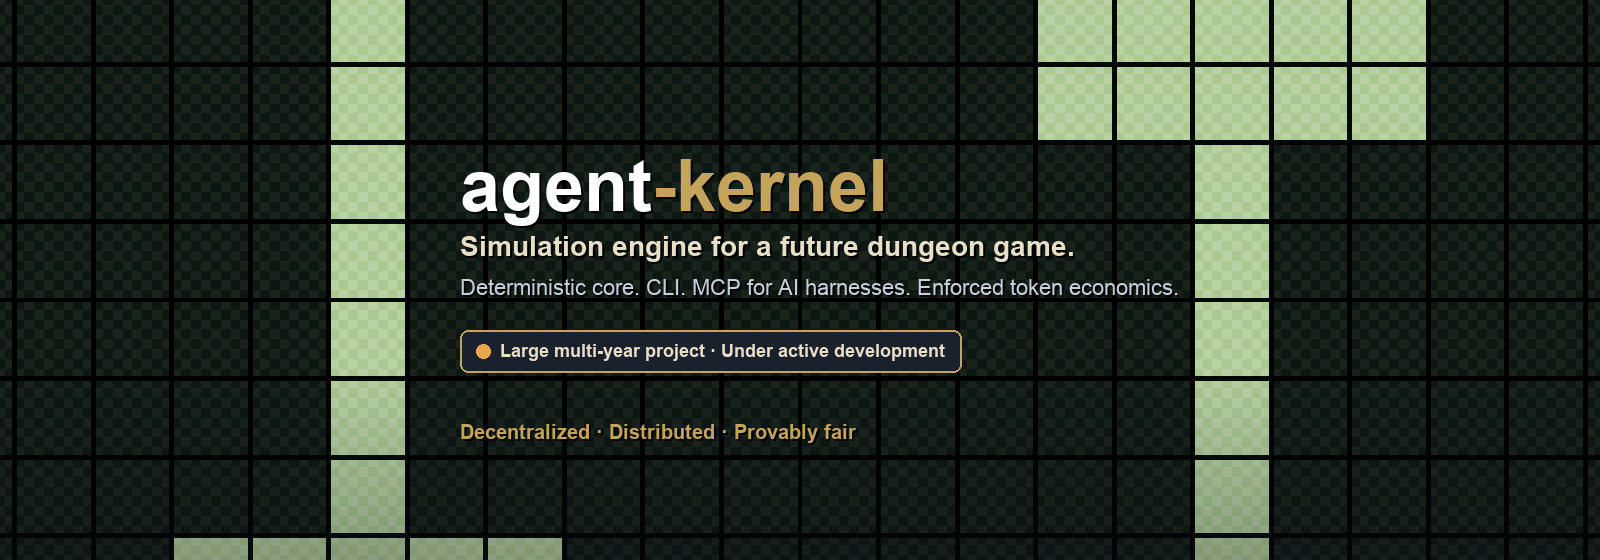
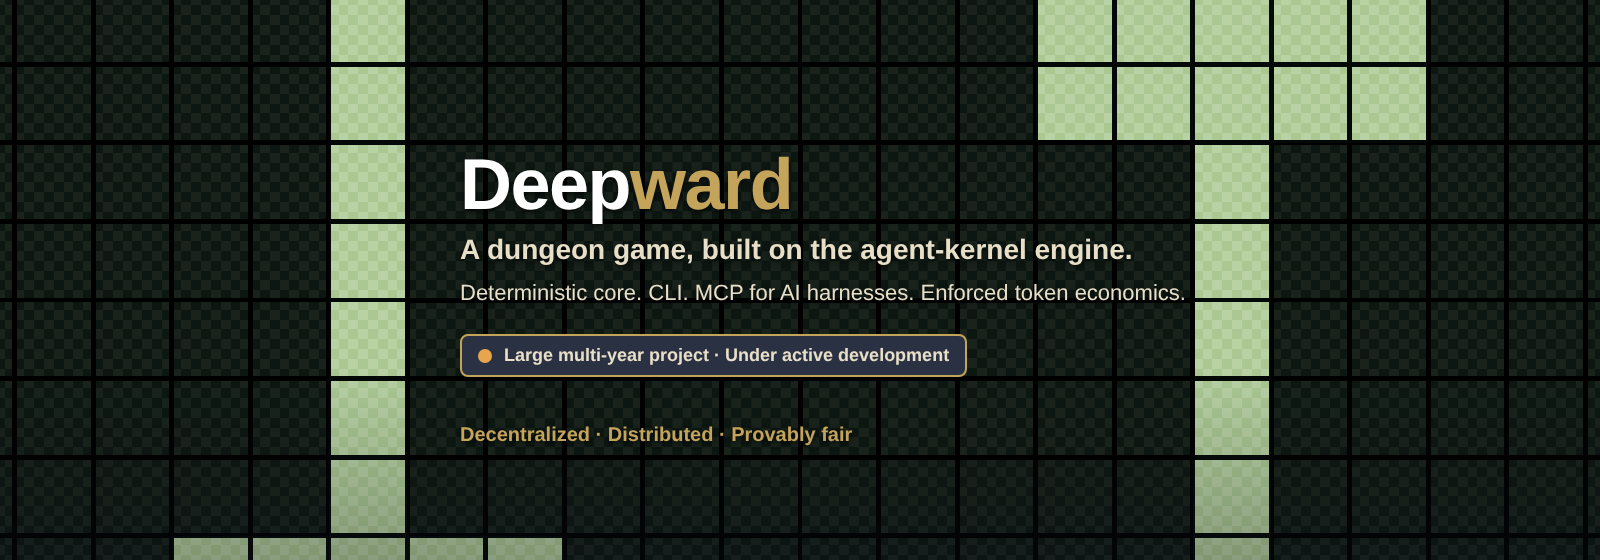
Deepward is the public name; agent-kernel stays the engine (#332)
Tier 1, visible names only (Darren, 2026-10-17):
- README leads with Deepward the game, then agent-kernel its engine.
  The brand kit, its preview, CLAUDE.md, AGENTS.md and the charter intro
  say the same.
- Root package.json is named `deepward`, with a matching description.
- Web game and browser UI titles, and the terminal game and run titles,
  read Deepward. Tests asserting the run title follow.
- banner.png is re-rendered with the Deepward wordmark from a new
  banner.html source over the same gameplay board
  (banner-background.png, the board with the old text painted out).
  scripts/brand/render-banner.sh regenerates it. banner.svg is updated too.
- Licence: PolyForm Strict 1.0.0 (LICENSE.md), terms of use (TERMS.md)
  and third-party notices (NOTICE.md), modelled on NordicAim's and linked
  from the README. The package.json licence is updated to match.

Out of scope and unchanged: `@agent-kernel/*` packages, `ak`, the
agent-kernel-cli MCP server, schema ids, settings permissions.
Renaming the GitHub repository is Darren's to do.

Claude-Session: https://claude.ai/code/session_013yJ8S9RcKaeZFRq2SLHoJD

Changed region(s): [[0.2812, 0.2732, 0.75, 0.5464], [0.2812, 0.5768, 0.625, 0.6982], [0.2812, 0.7589, 0.5312, 0.7893]]

diff --git a/docs/brand/preview.html b/docs/brand/preview.html
@@ -3,7 +3,7 @@
 <head>
   <meta charset="UTF-8" />
   <meta name="viewport" content="width=device-width, initial-scale=1" />
-  <title>agent-kernel — README preview (not published)</title>
+  <title>Deepward — README preview (not published)</title>
   <style>
     :root {
       --bg: #0d1117;
@@ -128,13 +128,13 @@
 <body>
   <div class="chrome">
     <strong>Local preview</strong>
-    <span>KomplexMojo / agent-kernel · README</span>
+    <span>KomplexMojo / Deepward · README</span>
     <span class="pill">Not published — review only</span>
   </div>
   <main>
     <article class="readme">
       <p class="center">
-        <img src="banner.png" alt="agent-kernel banner" width="100%">
+        <img src="banner.png" alt="Deepward banner" width="100%">
       </p>
       <p class="center">
         <img src="progress.svg" alt="Overall progress 40%" width="520">
@@ -152,7 +152,9 @@
         <img src="affinities/icon-affinity-dark.png" alt="">
       </div>
       <p class="center nav">
-        <a href="#the-engine"><b>The engine</b></a>
+        <a href="#the-game"><b>The game</b></a>
+        &nbsp;·&nbsp;
+        <a href="#the-engine">The engine</a>
         &nbsp;·&nbsp;
         <a href="#surfaces">Surfaces</a>
         &nbsp;·&nbsp;
@@ -164,11 +166,14 @@
       <blockquote>
         <b>Status.</b> This is a <b>large, multi-year project under active development</b>.
         Progress is about <b>40%</b> of the intended scope. The simulation core, CLI, and MCP surfaces
-        are in active use; the game that will sit on top of them is still ahead.
+        are in active use; the game that sits on top of them is early.
       </blockquote>
 
+      <h2 id="the-game">The game</h2>
+      <p><b>Deepward</b> is a dungeon game: delvers go down through rooms of wardens, traps and resources, and every one of them acts through its affinities and motivations. Deepward is the game and the public name; <b>agent-kernel</b> is the engine underneath it, and the name the code, packages and tools still carry.</p>
+
       <h2 id="the-engine">The engine</h2>
-      <p>agent-kernel is the <b>underlying simulation engine</b> for a future dungeon game. It is not the game itself.</p>
+      <p>agent-kernel is the <b>underlying simulation engine</b> for Deepward. It is not the game itself.</p>
       <p>The core advances dungeon scenarios deterministically: rooms, actors, affinities, motivations, hazards, resources, combat. Runs are replayable. Given the same inputs, the engine produces the same outcomes — that is the basis for <b>provable fairness</b>.</p>
       <p>Token spend is not advisory. <b>Token economics are enforced</b> in the Allocator: base costs, pricing formulas, spend validation, and receipts. Nothing else in the system invents a price.</p>
       <p class="center">

diff --git a/docs/brand/banner.html b/docs/brand/banner.html
@@ -1,0 +1,35 @@
+<!doctype html>
+<!-- Source of banner.png (#332). Render at 1600x560:
+     bash scripts/brand/render-banner.sh
+     banner-background.png is the gameplay board from run `readme-gameplay-banner` with no text. -->
+<html lang="en">
+<head>
+<meta charset="utf-8">
+<title>Deepward banner</title>
+<style>
+  html, body { margin: 0; background: #1A1F2E; }
+  .banner { position: relative; width: 1600px; height: 560px; background: url(banner-background.png) no-repeat;
+    font-family: "Liberation Sans", Arial, Helvetica, sans-serif; text-shadow: 0 2px 6px rgba(0, 0, 0, 0.85); }
+  .text { position: absolute; left: 460px; top: 148px; }
+  .wordmark { margin: 0; font-size: 72px; font-weight: 700; letter-spacing: -1.5px; line-height: 72px; color: #FFFFFF; }
+  .wordmark span { color: #C4A35A; }
+  .tagline { margin: 14px 0 0; font-size: 28px; font-weight: 700; color: #E8DFC8; }
+  .lede { margin: 14px 0 0; font-size: 22px; color: #E8DFC8; }
+  .chip { display: inline-flex; align-items: center; gap: 12px; margin-top: 28px; padding: 9px 16px; border: 2px solid #C4A35A;
+    border-radius: 8px; background: #2A3142; color: #E8DFC8; font-size: 18px; font-weight: 700; text-shadow: none; }
+  .chip i { width: 14px; height: 14px; border-radius: 50%; background: #E8A54B; }
+  .values { margin: 46px 0 0; font-size: 20px; font-weight: 700; color: #C4A35A; }
+</style>
+</head>
+<body>
+<div class="banner">
+  <div class="text">
+    <p class="wordmark">Deep<span>ward</span></p>
+    <p class="tagline">A dungeon game, built on the agent-kernel engine.</p>
+    <p class="lede">Deterministic core. CLI. MCP for AI harnesses. Enforced token economics.</p>
+    <div class="chip"><i></i>Large multi-year project · Under active development</div>
+    <p class="values">Decentralized · Distributed · Provably fair</p>
+  </div>
+</div>
+</body>
+</html>

diff --git a/packages/ui-web/delver-card.html b/packages/ui-web/delver-card.html
@@ -3,7 +3,7 @@
 <head>
   <meta charset="utf-8" />
   <meta name="viewport" content="width=device-width, initial-scale=1" />
-  <title>Agent Kernel — Delver Card</title>
+  <title>Deepward — Delver Card</title>
   <link rel="preconnect" href="https://fonts.googleapis.com" />
   <link rel="preconnect" href="https://fonts.gstatic.com" crossorigin />
   <link href="https://fonts.googleapis.com/css2?family=Cinzel:wght@400;600;700&family=JetBrains+Mono:wght@300;400;500&family=Lora:ital,wght@0,400;0,600;1,400&display=swap" rel="stylesheet" />
@@ -619,7 +619,7 @@
 <body>
 
 <nav class="topbar">
-  <span class="topbar-brand">Agent Kernel</span>
+  <span class="topbar-brand">Deepward</span>
   <span class="topbar-meta" id="run-meta">run_mo60b2t9_qcyvij · delver-plan · 2026-04-19</span>
   <div class="topbar-actions">
     <button class="btn" onclick="document.getElementById('file-input').click()">Load spec.json</button>

diff --git a/tests/integration/mcp/mcp-play-ascii.test.js b/tests/integration/mcp/mcp-play-ascii.test.js
@@ -149,7 +149,7 @@ test("ak_play_ascii watches an ak_run run by runId, tick by tick, with every act
     assert.equal(start.ok, true, JSON.stringify(start));
     assert.equal(start.tick, 0);
     assert.equal(start.maxTick, 4);
-    assert.match(start.screen, /agent-kernel run/);
+    assert.match(start.screen, /Deepward run/);
     assert.match(start.screen, /W/, "the warden is drawn: a watched run has no fog");
     assert.doesNotMatch(start.screen, /\?{3}/);
     assert.match(start.launch, /play --dir .* --watch --tick 0$/);

diff --git a/tests/ui-ascii/ui-ascii-watch.test.js b/tests/ui-ascii/ui-ascii-watch.test.js
@@ -87,7 +87,7 @@ test("the cursor stays inside the run, and each tick draws that tick", () => {
 
 test("the watch screen is the game's screen: wardens drawn, no fog, no play hints", () => {
   const screen = createWatch({ run: loadRunFromDir(dir) }).screen();
-  assert.match(screen, /^agent-kernel run — /);
+  assert.match(screen, /^Deepward run — /);
   assert.match(screen, /W/);
   assert.doesNotMatch(screen, /\?\?\?/);
   assert.doesNotMatch(screen, /press i/);

diff --git a/packages/ui-ascii/src/watch.js b/packages/ui-ascii/src/watch.js
@@ -51,7 +51,7 @@ export function createWatch({ run, tick = 0, showHelp: initialHelp = true, creat
     return renderScreen({
       view,
       levelName: run.name,
-      title: `agent-kernel run — ${run.name}`,
+      title: `Deepward run — ${run.name}`,
       tickLine: `Tick ${cursor} of ${viewer.maxTick}${following}`,
       message: watchStatusLine(view, viewer.maxTick, viewer.playerActorId) || "Watching a recorded run.",
       showHelp,

diff --git a/packages/ui-web/index.html b/packages/ui-web/index.html
@@ -3,7 +3,7 @@
   <head>
     <meta charset="utf-8" />
     <meta name="viewport" content="width=device-width, initial-scale=1" />
-    <title>Agent Kernel</title>
+    <title>Deepward</title>
     <style>
       @import url("https://fonts.googleapis.com/css2?family=Newsreader:opsz,wght@6..72,700;6..72,800&family=Space+Grotesk:wght@400;500;600&family=Work+Sans:wght@300;400;600&display=swap");
 

diff --git a/packages/ui-ascii/src/screen.js b/packages/ui-ascii/src/screen.js
@@ -291,7 +291,7 @@ export function renderScreen({
   showHelp = true,
   color = false,
   panel = null,
-  title = `agent-kernel maze — ${levelName} (${levelIndex + 1}/${levelCount})`,
+  title = `Deepward — ${levelName} (${levelIndex + 1}/${levelCount})`,
   tickLine = `Tick ${view.tick}   Turns ${turns}`,
   helpLines = HELP_LINES,
   hints = true,

diff --git a/packages/ui-web/index_c.html b/packages/ui-web/index_c.html
@@ -3,7 +3,7 @@
   <head>
     <meta charset="utf-8" />
     <meta name="viewport" content="width=device-width, initial-scale=1" />
-    <title>Agent Kernel — Current</title>
+    <title>Deepward — Current</title>
     <link rel="stylesheet" href="./src/styles.css" />
   </head>
   <body class="interface-c">

diff --git a/packages/ui-web/index_l.html b/packages/ui-web/index_l.html
@@ -3,7 +3,7 @@
   <head>
     <meta charset="utf-8" />
     <meta name="viewport" content="width=device-width, initial-scale=1" />
-    <title>Agent Kernel — Legacy</title>
+    <title>Deepward — Legacy</title>
     <link rel="stylesheet" href="./src/styles.css" />
   </head>
   <body>

diff --git a/LICENSE.md b/LICENSE.md
@@ -1,0 +1,61 @@
+Required Notice: Copyright (c) 2026 KomplexMojo (https://github.com/KomplexMojo/agent-kernel)
+
+# PolyForm Strict License 1.0.0
+
+<https://polyformproject.org/licenses/strict/1.0.0>
+
+## Acceptance
+
+In order to get any license under these terms, you must agree to them as both strict obligations and conditions to all your licenses.
+
+## Copyright License
+
+The licensor grants you a copyright license for the software to do everything you might do with the software that would otherwise infringe the licensor's copyright in it for any permitted purpose, other than distributing the software or making changes or new works based on the software.
+
+## Patent License
+
+The licensor grants you a patent license for the software that covers patent claims the licensor can license, or becomes able to license, that you would infringe by using the software.
+
+## Noncommercial Purposes
+
+Any noncommercial purpose is a permitted purpose.
+
+## Personal Uses
+
+Personal use for research, experiment, and testing for the benefit of public knowledge, personal study, private entertainment, hobby projects, amateur pursuits, or religious observance, without any anticipated commercial application, is use for a permitted purpose.
+
+## Noncommercial Organizations
+
+Use by any charitable organization, educational institution, public research organization, public safety or health organization, environmental protection organization, or government institution is use for a permitted purpose regardless of the source of funding or obligations resulting from the funding.
+
+## Fair Use
+
+You may have "fair use" rights for the software under the law. These terms do not limit them.
+
+## No Other Rights
+
+These terms do not allow you to sublicense or transfer any of your licenses to anyone else, or prevent the licensor from granting licenses to anyone else.  These terms do not imply any other licenses.
+
+## Patent Defense
+
+If you make any written claim that the software infringes or contributes to infringement of any patent, your patent license for the software granted under these terms ends immediately. If your company makes such a claim, your patent license ends immediately for work on behalf of your company.
+
+## Violations
+
+The first time you are notified in writing that you have violated any of these terms, or done anything with the software not covered by your licenses, your licenses can nonetheless continue if you come into full compliance with these terms, and take practical steps to correct past violations, within 32 days of receiving notice.  Otherwise, all your licenses end immediately.
+
+## No Liability
+
+***As far as the law allows, the software comes as is, without any warranty or condition, and the licensor will not be liable to you for any damages arising out of these terms or the use or nature of the software, under any kind of legal claim.***
+
+## Definitions
+
+The **licensor** is the individual or entity offering these terms, and the **software** is the software the licensor makes available under these terms.
+
+**You** refers to the individual or entity agreeing to these terms.
+
+**Your company** is any legal entity, sole proprietorship, or other kind of organization that you work for, plus all organizations that have control over, are under the control of, or are under common control with that organization.  **Control** means ownership of substantially all the assets of an entity, or the power to direct its management and policies by vote, contract, or otherwise.  Control can be direct or indirect.
+
+**Your licenses** are all the licenses granted to you for the software under these terms.
+
+**Use** means anything you do with the software requiring one of your licenses.

diff --git a/README.md b/README.md
@@ -1,5 +1,5 @@
 <p align="center">
-  <img src="docs/brand/banner.png" alt="agent-kernel: simulation engine for a future decentralized dungeon game" width="100%">
+  <img src="docs/brand/banner.png" alt="Deepward: a dungeon game, built on the agent-kernel engine" width="100%">
 </p>
 
 <p align="center">
@@ -29,7 +29,9 @@
 </p>
 
 <p align="center">
-  <a href="#the-engine"><b>The engine</b></a>
+  <a href="#the-game"><b>The game</b></a>
+  &nbsp;·&nbsp;
+  <a href="#the-engine">The engine</a>
   &nbsp;·&nbsp;
   <a href="#surfaces">Surfaces</a>
   &nbsp;·&nbsp;
@@ -38,11 +40,17 @@
   <a href="#status">Status</a>
 </p>
 
-> **Status.** This is a **large, multi-year project under active development**. Progress is about **40%** of the intended scope. The simulation core, CLI, and MCP surfaces are in active use; the game that will sit on top of them is still ahead.
+> **Status.** This is a **large, multi-year project under active development**. Progress is about **40%** of the intended scope. The simulation core, CLI, and MCP surfaces are in active use; the game that sits on top of them is early.
+
+## The game
+
+**Deepward** is a dungeon game: delvers go down through rooms of wardens, traps and resources, and every one of them
+acts through its affinities and motivations. Deepward is the game and the public name; **agent-kernel** is the engine
+underneath it, and the name the code, packages and tools still carry.
 
 ## The engine
 
-agent-kernel is the **underlying simulation engine** for a future dungeon game. It is not the game itself.
+agent-kernel is the **underlying simulation engine** for Deepward. It is not the game itself.
 
 The core advances dungeon scenarios deterministically: rooms, actors, affinities, motivations, hazards, resources, combat. Runs are replayable. Given the same inputs, the engine produces the same outcomes — that is the basis for **provable fairness**.
 
@@ -99,7 +107,15 @@ The harness turns those requests into structured `ak_create` / `ak_configure` ca
 
 Early relative to the full multi-year scope. The engine, offline authoring path, and harness integration are the working middle. The public game layer, wider distribution path, and product polish are still open.
 
-Private repository while under development. Licence: ISC (see `package.json`).
+## Licence
+
+**Playing Deepward is free.** The [terms of use](TERMS.md) ask only that you don't sell it or bundle it into something
+paid, and don't host or copy it elsewhere.
+
+The source code, game and engine alike, is published under the [PolyForm Strict License 1.0.0](LICENSE.md): you may read
+and run it for noncommercial use, but not modify or redistribute it. It is source-available, not open source. The
+"Deepward" name and banner are not licensed for reuse. Third-party components keep their own licences
+([NOTICE.md](NOTICE.md)).
 
 <br>
 
